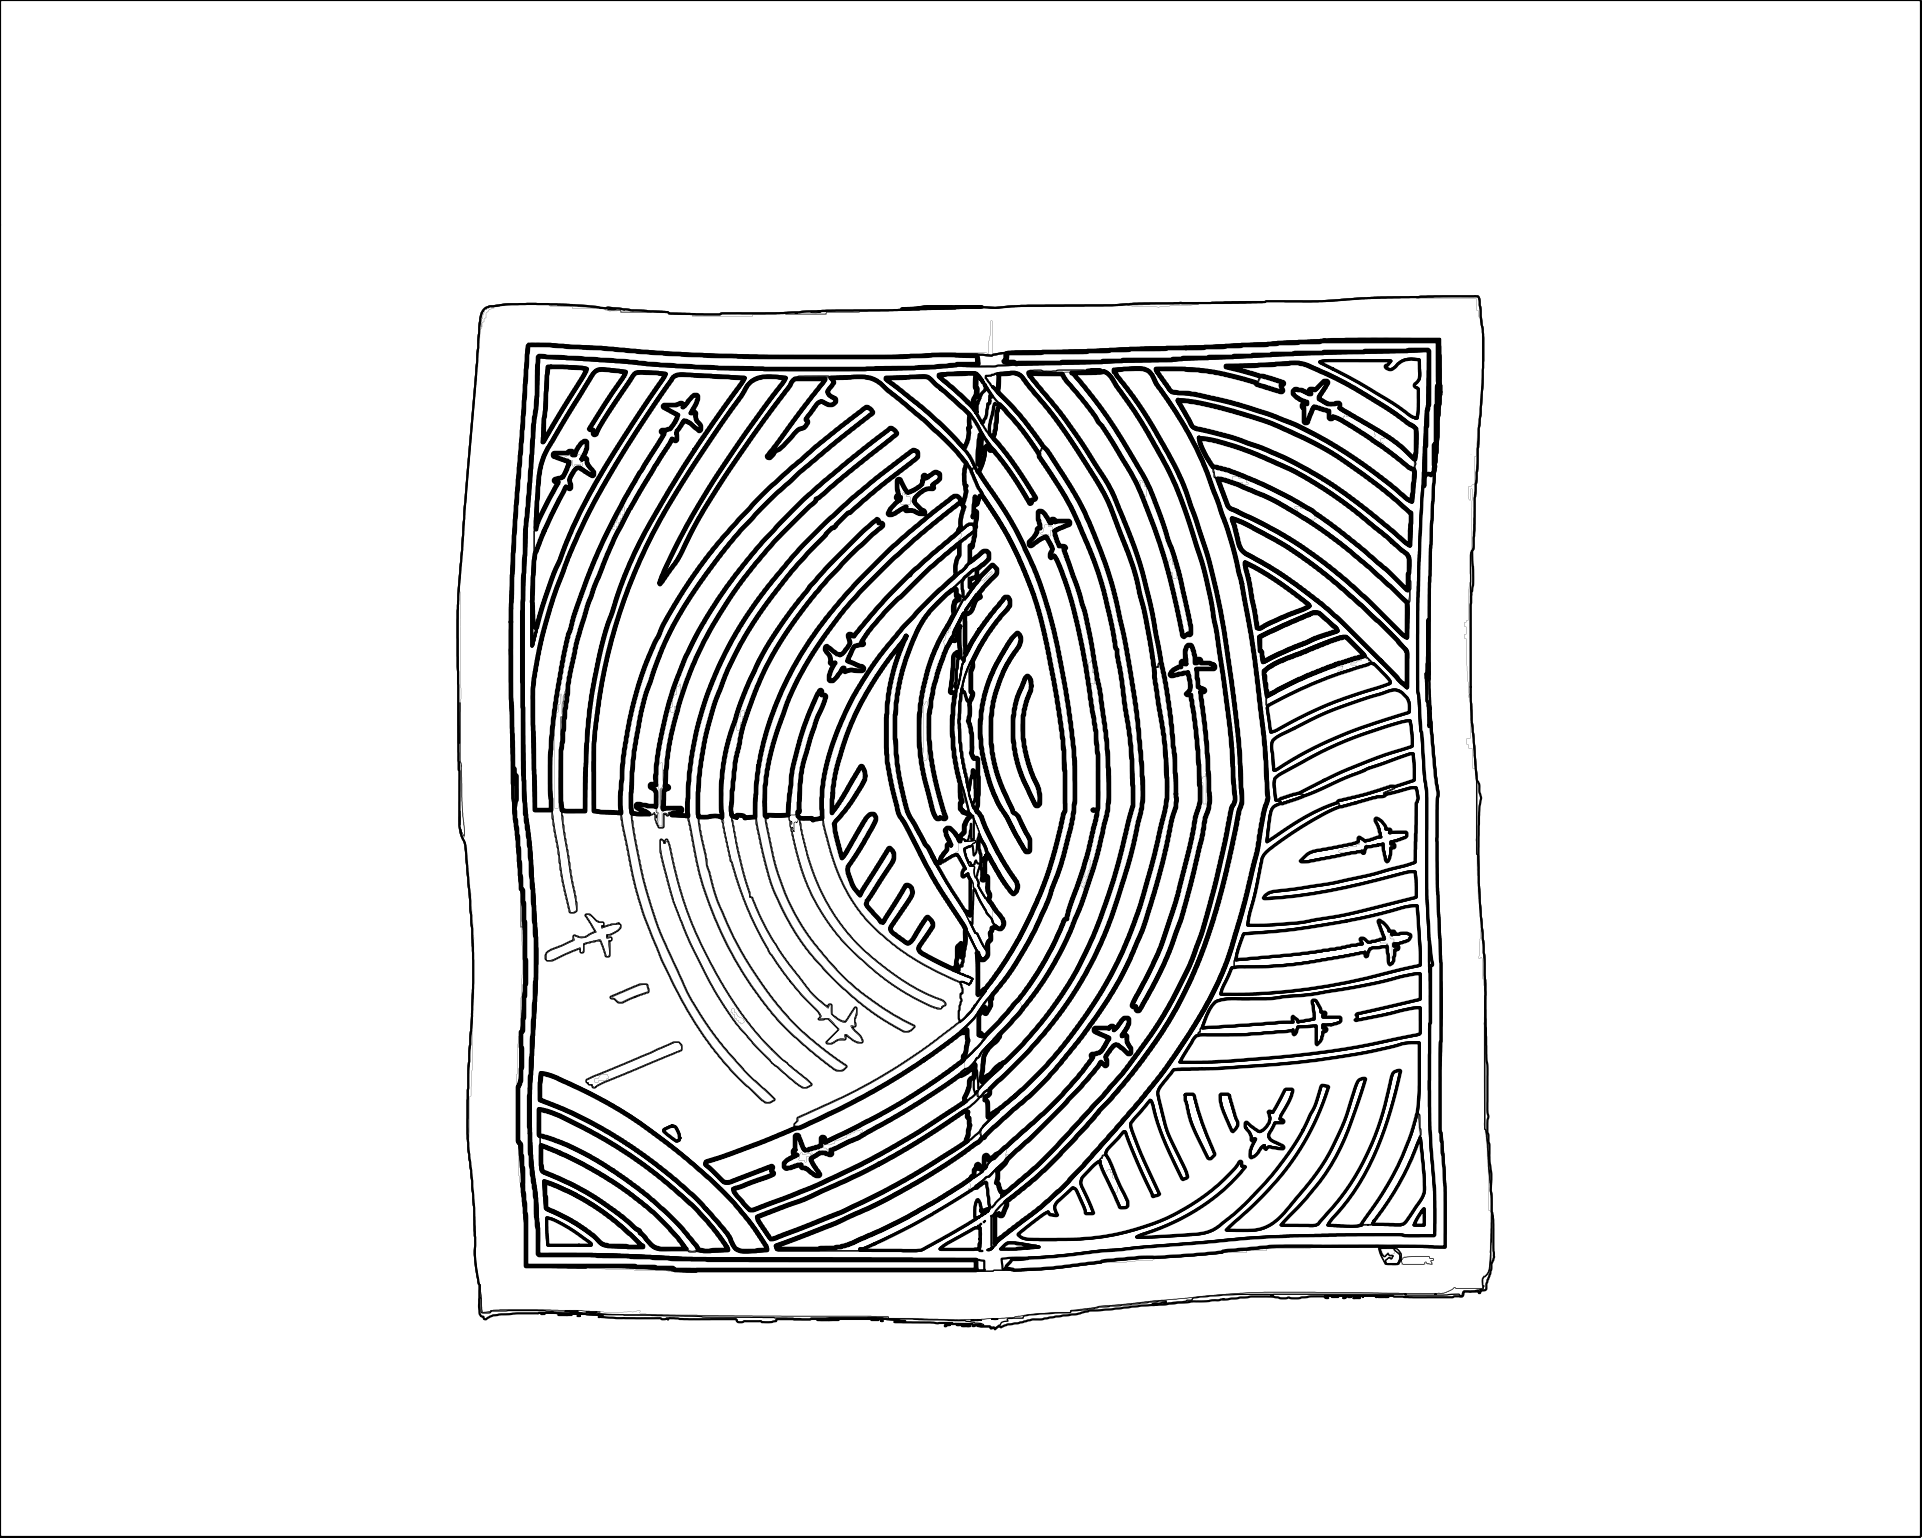
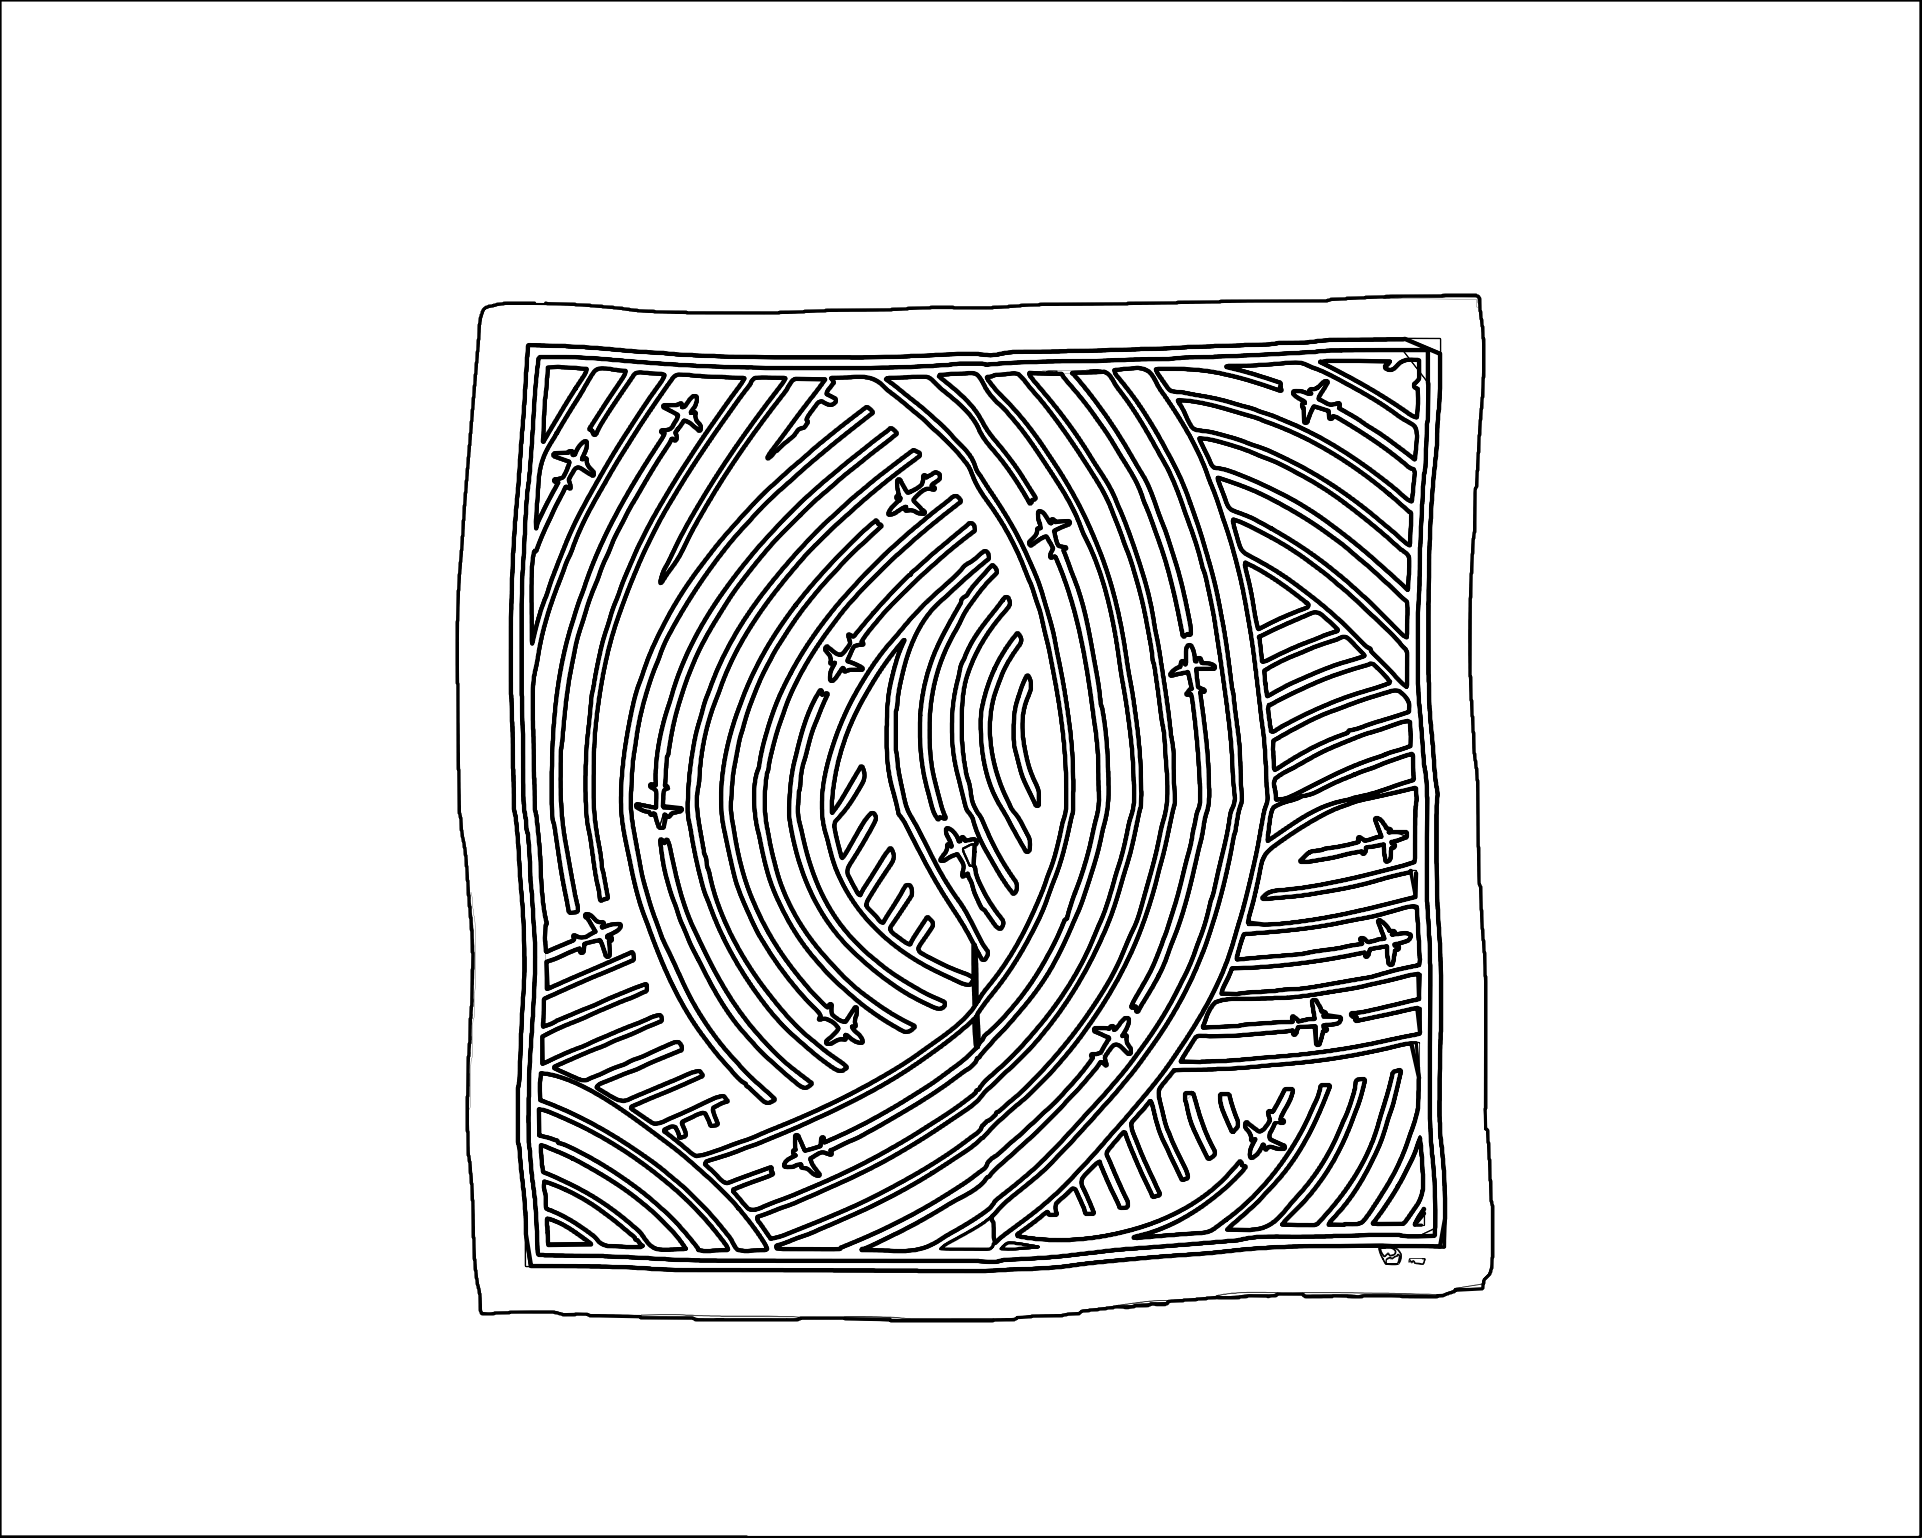
enable line-smoothing by default

diff --git a/cmd/outline/main.go b/cmd/outline/main.go
@@ -36,11 +36,11 @@ func main() {
 	fs.IntVar(&contour_iterations, "contour-iteration", 8, "The number of iterations to perform generating an image contour.")
 	fs.Float64Var(&contour_scale, "contour-scale", 1.0, "The scale factor of the final image contour.")
 	fs.StringVar(&contour_format, "contour-format", "png", "The format for the final image contour. Valid options are: png, svg.")
-	fs.BoolVar(&contour_smoothing, "contour-smoothing", false, "...")
-	fs.IntVar(&smoothing_iterations, "contour-smoothing-iterations", 6, "...")
-	fs.BoolVar(&smoothing_close, "contour-smoothing-close", true, "...")
+	fs.BoolVar(&contour_smoothing, "contour-smoothing", true, "Enable line-smoothing of contours using Chaikin's algorithm.")
+	fs.IntVar(&smoothing_iterations, "contour-smoothing-iterations", 6, "The number of iterations to perform when doing line smoothing. Note: More than 6 iterations often results in blank images.")
+	fs.BoolVar(&smoothing_close, "contour-smoothing-close", true, "Automatically close paths when performing line smoothing.")
 
-	fs.IntVar(&vtracer_precision, "vtracer-precision", 6, "Number of significant bits (color precision) to use in an RGB channel.")
+	fs.IntVar(&vtracer_precision, "vtracer-precision", 4, "Number of significant bits (color precision) to use in an RGB channel.")
 	fs.IntVar(&vtracer_speckle, "vtracer-speckle", 8, "Discard patches smaller than X px in size")
 
 	fs.BoolVar(&use_batik, "use-batik", true, "Use the Java Batik SVG raterizer.")

diff --git a/README.md b/README.md
@@ -20,6 +20,12 @@ $> ./bin/outline -h
     	The number of iterations to perform generating an image contour. (default 8)
   -contour-scale float
     	The scale factor of the final image contour. (default 1)
+  -contour-smoothing
+    	Enable line-smoothing of contours using Chaikin's algorithm. (default true)
+  -contour-smoothing-close
+    	Automatically close paths when performing line smoothing. (default true)
+  -contour-smoothing-iterations int
+    	The number of iterations to perform when doing line smoothing. Note: More than 6 iterations often results in blank images. (default 4)
   -infile string
     	The path to the image you want to generate an outline for.
   -outfile string
@@ -53,3 +59,4 @@ And produce this file:
 * https://www.visioncortex.org/vtracer/
 * https://xmlgraphics.apache.org/batik/
 * https://github.com/fogleman/contourmap
+* https://github.com/aaronland/go-chaikin
